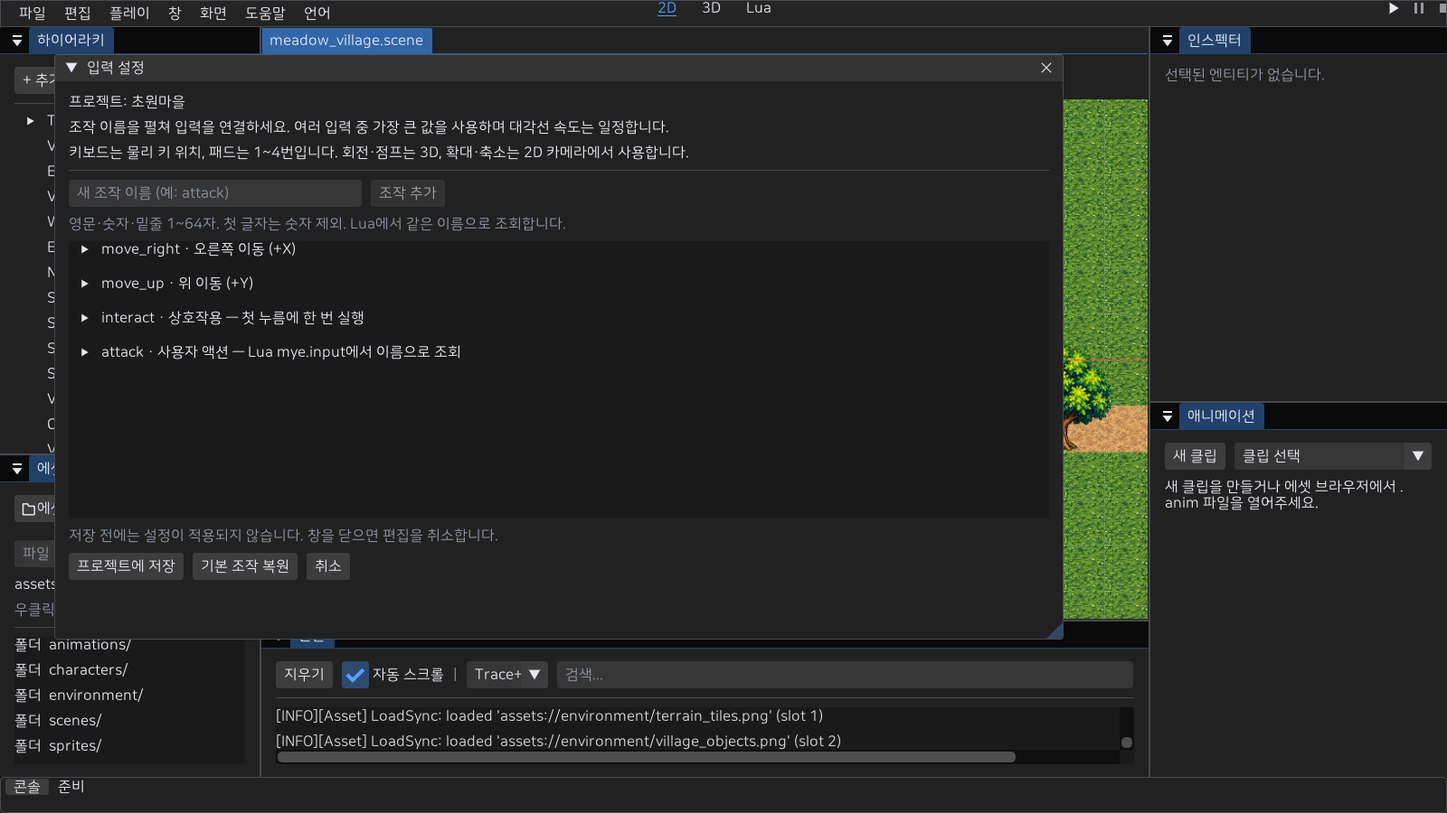
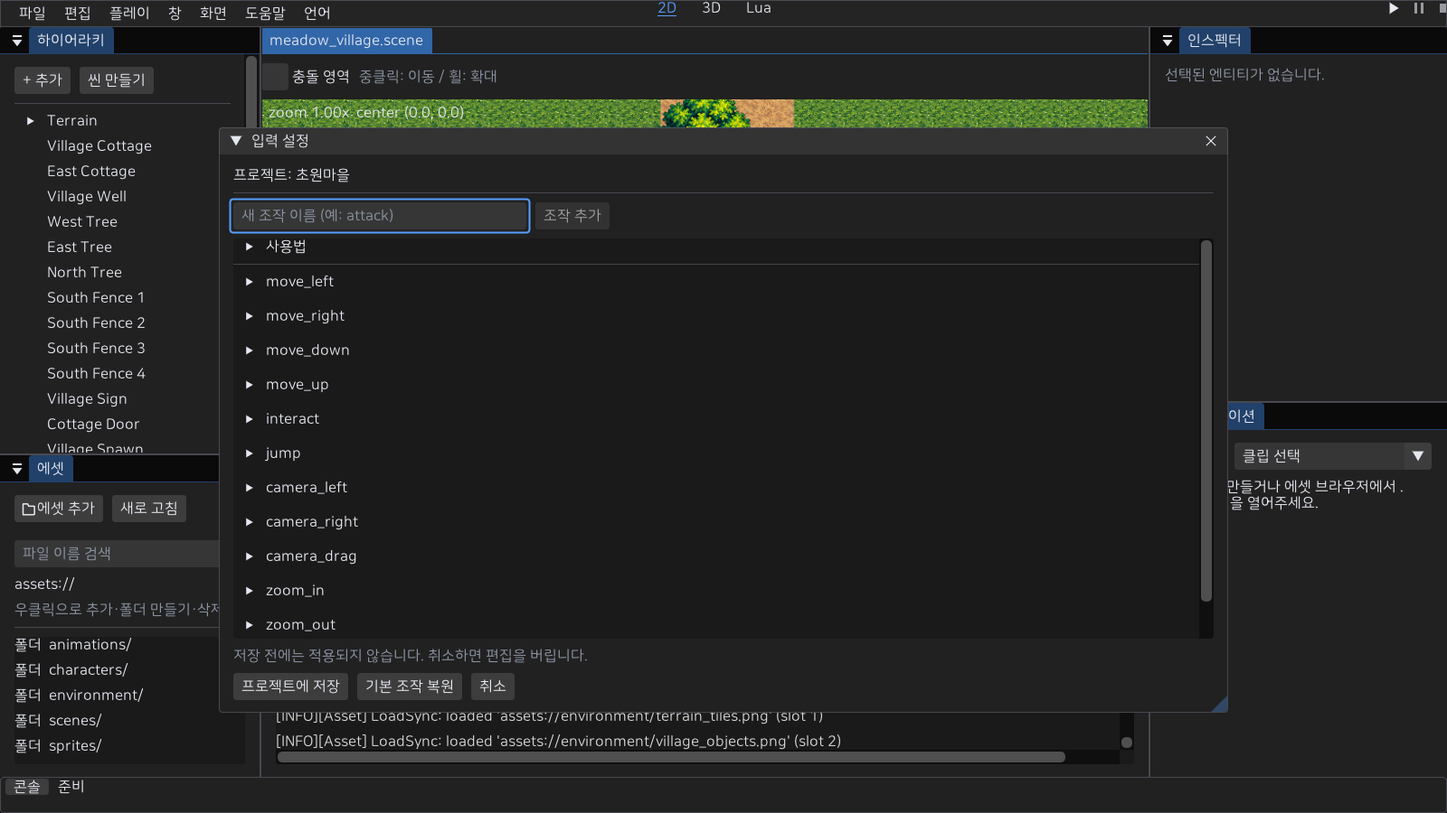
Improve input settings layout and keyboard routing

Changed region(s): [[0.0312, 0.0622, 0.875, 0.8711], [0.6875, 0.9022, 0.75, 0.9333], [0.1875, 0.4667, 0.2188, 0.5289]]

diff --git a/docs/guide/input.html b/docs/guide/input.html
@@ -10,10 +10,11 @@
 <a href="#section-5">검증과 다음 단위</a></nav></aside><main id="main"><h1 id="section-0">프로젝트 입력 설정</h1>
 <p><strong>파일 → 입력 설정…</strong>에서 조작을 만들거나 펼쳐 키보드·마우스·패드 입력을 연결하고 <strong>프로젝트에 저장</strong>을 누른다. Play와 MyGame의 로컬/인증 플레이가 같은 설정을 읽는다. 사용자 액션은 로컬 Lua에서 이름으로 조회한다. 현재 main 소스의 기능이며 기존 0.3.0 배포본에는 없다.</p>
 <h2 id="section-1">바로 변경하기</h2>
-<ol><li>Play를 중지하고 입력 설정을 연다.</li><li><code>move_right</code>를 펼쳐 기존 입력을 제거하고 <strong>입력 추가 → 키보드 → L</strong>을 선택한다. 다른 방향도 원하는 키로 지정한다.</li><li>필요하면 마우스 버튼·패드 버튼/축을 추가한다. 같은 조작에 여러 입력을 연결할 수 있지만 같은 바인딩을 두 번 저장할 수 없다.</li><li><strong>프로젝트에 저장</strong>을 누르고 다시 Play를 시작한다. 다음 실행부터 저장한 설정을 사용한다. 창 닫기·Escape·취소는 저장 전 편집을 버린다.</li></ol>
-<p>설정 창은 크기를 변경할 수 있고 목록을 스크롤한다. 장치·입력·패드 번호·방향은 두 열로 배치한다. <strong>기본 조작 복원</strong>은 편집 중인 설정만 기본값으로 바꾸며 저장해야 적용된다. 씬과 다른 프로젝트 파일은 이 버튼으로 저장하지 않는다.</p>
-<p>사용자 조작은 위의 이름 칸에 <code>attack</code>처럼 영문·숫자·밑줄 1~64자를 쓰고 <strong>조작 추가</strong>를 누른다. 숫자로 시작하는 이름·중복 이름은 거부하며 최대 64개다. 추가한 조작을 펼쳐 바인딩을 연결한다. <strong>조작 제거</strong>는 해당 이름과 모든 바인딩을 편집 초안에서 지운다. 기본 이동 조작도 제거하면 작동하지 않으므로 필요할 때 기본값을 복원한다. 이름 변경은 제거 후 새 이름으로 추가한다. 저장 전 취소는 추가·제거도 버린다.</p>
-<figure><img src="../images/input-settings.png" alt="실제 MyEditor 입력 설정 창. 검사 프로젝트에 저장한 세 조작을 표시한다." width="1600" height="900" loading="lazy"><figcaption>실제 MyEditor 입력 설정 창. 검사 프로젝트에 저장한 세 조작을 표시한다.</figcaption></figure>
+<ol><li>Play를 중지하고 입력 설정을 연다.</li><li><code>move_right</code>를 펼쳐 기존 입력을 제거하고 <strong>입력 추가 → 키보드 → L</strong>을 선택한다. 다른 방향도 원하는 키로 지정한다.</li><li>필요하면 마우스 버튼·패드 버튼/축을 추가한다. 같은 조작에 여러 입력을 연결할 수 있지만 같은 바인딩을 두 번 저장할 수 없다.</li><li><strong>프로젝트에 저장</strong>을 누르고 다시 Play를 시작한다. 다음 실행부터 저장한 설정을 사용한다. 창 닫기·취소는 저장 전 편집을 버린다. 입력 설정에 포커스가 있을 때 Escape로 취소한다. 입력 칸/팝업이 먼저 Escape를 소비하면 편집/팝업을 종료한 뒤 다시 누른다. 다른 작업대의 Escape는 초안을 버리지 않는다.</li></ol>
+<p>화면 크기가 바뀌면 설정 창을 다시 중앙에 배치한다. 설정 창은 사용 가능한 화면 크기 안에서 크기를 변경하며 이름 칸·추가 버튼과 하단 버튼은 폭에 맞춰 줄을 바꾼다. 사용법과 조작 목록은 스크롤 영역이고 저장·복원·취소는 하단에 둔다. 장치·입력·패드 번호·방향은 두 열로 배치한다. 조작의 역할은 펼쳤을 때 표시하고 접힌 이름에는 툴팁으로 제공한다. <strong>기본 조작 복원</strong>은 편집 중인 설정만 기본값으로 바꾸며 저장해야 적용된다. 씬과 다른 프로젝트 파일은 이 버튼으로 저장하지 않는다.</p>
+<p>창을 열면 이름 칸에 포커스가 간다. 사용자 조작은 <code>attack</code>처럼 영문·숫자·밑줄 1~64자를 쓰고 <strong>Enter 또는 조작 추가</strong>를 누른다. 숫자로 시작하는 이름·중복 이름은 거부하며 최대 64개다. 추가한 조작을 펼쳐 바인딩을 연결한다. <strong>조작 제거</strong>는 해당 이름과 모든 바인딩을 편집 초안에서 지운다. 기본 이동 조작도 제거하면 작동하지 않으므로 필요할 때 기본값을 복원한다. 이름 변경은 제거 후 새 이름으로 추가한다. 저장 전 취소는 추가·제거도 버린다.</p>
+<figure><img src="../images/input-settings.png" alt="MyEditor 1600×900 화면의 입력 설정. 기본 조작 목록과 이름 칸의 포커스를 표시한다." width="1600" height="900" loading="lazy"><figcaption>MyEditor 1600×900 화면의 입력 설정. 기본 조작 목록과 이름 칸의 포커스를 표시한다.</figcaption></figure>
+<figure><img src="../images/input-settings-narrow.png" alt="MyEditor 480×600 화면. 이름 입력/추가를 두 줄로 배치하고 하단 저장 버튼을 유지한다." width="480" height="600" loading="lazy"><figcaption>MyEditor 480×600 화면. 이름 입력/추가를 두 줄로 배치하고 하단 저장 버튼을 유지한다.</figcaption></figure>
 <h2 id="section-2">기본 조작</h2>
 <div class="table-scroll"><table><tr><th>조작 이름</th><th>기본 입력</th><th>역할</th></tr><tr><td>move_left / move_right</td><td>A / D, ← / →, 패드 D-pad·왼쪽 X축</td><td>XY 수평 이동</td></tr><tr><td>move_down / move_up</td><td>S / W, ↓ / ↑, 패드 D-pad·왼쪽 Y축</td><td>XY 수직 이동. +Y 위</td></tr><tr><td>interact</td><td>E, 패드 X</td><td>로컬의 가까운 대상과 상호작용. 첫 누름에 한 번</td></tr><tr><td>jump</td><td>Space, 패드 A</td><td>기존 3D 캐릭터의 점프</td></tr><tr><td>camera_left / camera_right</td><td>Q / R, 패드 오른쪽 X축</td><td>기존 3D 카메라 회전</td></tr><tr><td>camera_drag</td><td>마우스 오른쪽 버튼</td><td>기존 3D 카메라 드래그</td></tr><tr><td>zoom_in / zoom_out</td><td>휠 위 / 아래</td><td>저장 2D 카메라의 확대·축소. 키/버튼이면 첫 누름에 한 단계</td></tr><tr><td>exit_game</td><td>Escape</td><td>MyGame 종료, Play 중지 후 편집으로 복귀</td></tr></table></div>
 <p>입력이 없는 조작은 작동하지 않는다. 키보드는 문자가 아닌 물리 키 위치를 사용한다. 패드 번호는 UI에서 1~4이며 기본값은 1이다. 스틱 X의 양수는 오른쪽, Y의 양수는 위다. 에디터의 Ctrl+S·Ctrl+P 등 단축키와 작업대 팬·줌은 게임 조작 설정과 별개다.</p>
@@ -48,5 +49,5 @@
 <h2 id="section-5">검증과 다음 단위</h2>
 <p><code>InputActions → runtime::GameInputBuffer → PlayModeController/ObjectSystem 또는 MyGame::TickOnline</code>이 실제 소비 경로다. 온라인 패킷·예측/권위 이동 계약은 그대로 사용하며 시각 카메라/종료 입력을 서버 이동 권위로 보내지 않는다. MyServer는 조작 키를 해석하지 않는다.</p>
 <p>회귀 검사는 짧은 탭·반복·고정 틱 소비·대각선/반대 방향·캡처 취소·저장/재로드/실패 보존과 동일 입력의 Play/로컬 ObjectSystem 위치 일치를 확인한다. Play 창의 Win32 메시지에 X1 탭·휠·키·포커스를 보내는 검사는 <strong>합성 메시지</strong>이며 직접 장치 입력 검수와 구분한다. <code>tools/verify-input-actions.ps1</code>은 두 앱의 설정 로딩/오류 종료·실제 설정 창 캡처·이전 프로젝트 호환·씬 보존을 검사한다. 이동 키를 직접 누르는 검사를 대신하지 않는다.</p>
-<p>사용자 액션 작성·저장·재로드와 Lua 틱/종료 수명은 Play/별도 로컬 ObjectSystem에서 검증한다. 원시 패드 회귀는 작은 스틱/트리거·양끝·네 슬롯·연결 종료/포커스 중립·복귀 시 held 버튼 재실행 방지·대각선을 같은 샘플 경계에서 검사한다. 복귀한 이동은 유지하며 새 버튼 누름은 다시 실행된다. 저장한 4번 패드 트리거 조작이 Play/로컬 Lua에 전달되는 것도 확인한다. 합성 샘플은 실제 장치를 대신하지 않는다. 다음 단위는 직접 키보드·휠·패드/포커스 복귀·확장 위젯·좁은 화면/고해상도 검수다. D07 전체와 MMORPG 제작/출시는 아직 완료되지 않았다. <a href="camera2d.html">카메라</a>, <a href="../23-2d-online-play.md">2D 온라인</a>, <a href="../22-2d-mmorpg-roadmap.md">남은 작업</a>을 함께 확인한다.</p>
+<p>사용자 액션 작성·저장·재로드와 Lua 틱/종료 수명은 Play/별도 로컬 ObjectSystem에서 검증한다. 원시 패드 회귀는 작은 스틱/트리거·양끝·네 슬롯·연결 종료/포커스 중립·복귀 시 held 버튼 재실행 방지·대각선을 같은 샘플 경계에서 검사한다. 복귀한 이동은 유지하며 새 버튼 누름은 다시 실행된다. 저장한 4번 패드 트리거 조작이 Play/로컬 Lua에 전달되는 것도 확인한다. 합성 샘플은 실제 장치를 대신하지 않는다. ImGui 키 이벤트/활성화 회귀는 Enter 추가·포커스별 Escape·펼친 기본 조작 바인딩·좁은 창과 글꼴 1.5배의 가로 넘침/하단 버튼 가시성을 검사한다. native 캡처는 1600×900·480×600·360×600을 확인했다. 사람의 전체 키보드 탐색·직접 키보드/휠/패드·OS 반복·실제 모니터 DPI 전환 검수는 남았다. 다음은 이 장치 검수와 방향별 모션이다. D07 전체와 MMORPG 제작/출시는 아직 완료되지 않았다. <a href="camera2d.html">카메라</a>, <a href="../23-2d-online-play.md">2D 온라인</a>, <a href="../22-2d-mmorpg-roadmap.md">남은 작업</a>을 함께 확인한다.</p>
 <footer>정본: <a href="../25-input-actions.md">25-input-actions.md</a> · main 소스 전용</footer></main></div></body></html>

diff --git a/engine/editor/src/EditorInputSettings.cpp b/engine/editor/src/EditorInputSettings.cpp
@@ -51,6 +51,7 @@ Expected<void, Error> EditorApp::RequestInputSettings() {
     if (!m_project || !m_project->IsOpen()) return Error{"입력 설정을 변경할 프로젝트를 먼저 여세요.", 1};
     if (m_playMode->IsPlaying()) return Error{"실행을 중지한 뒤 입력 설정을 변경하세요.", 1};
     m_inputDraft = m_project->InputSettings();
+    m_inputSettingsViewportSize = {};
     m_inputActionName.fill(0);
     m_inputActionError.clear();
     m_showInputSettings = true;
@@ -59,22 +60,36 @@ Expected<void, Error> EditorApp::RequestInputSettings() {
 void EditorApp::DrawInputSettings() {
     if (!m_showInputSettings || !m_project->IsOpen()) return;
     const auto* viewport = ImGui::GetMainViewport();
+    const Vec2 workSize{viewport->WorkSize.x, viewport->WorkSize.y};
+    const bool viewportResized = workSize != m_inputSettingsViewportSize;
+    m_inputSettingsViewportSize = workSize;
+    const ImVec2 maxSize{viewport->WorkSize.x * .9f, viewport->WorkSize.y * .85f};
+    ImGui::SetNextWindowSizeConstraints({std::min(maxSize.x, ImGui::GetFontSize() * 18),
+                                         std::min(maxSize.y, ImGui::GetFontSize() * 24)}, maxSize);
+    ImGui::SetNextWindowPos({viewport->WorkPos.x + viewport->WorkSize.x * .5f,
+                            viewport->WorkPos.y + viewport->WorkSize.y * .5f},
+                            viewportResized ? ImGuiCond_Always : ImGuiCond_Appearing, {.5f, .5f});
     ImGui::SetNextWindowSize({std::min(viewport->WorkSize.x * .9f, ImGui::GetFontSize() * 62),
                              std::min(viewport->WorkSize.y * .85f, ImGui::GetFontSize() * 36)}, ImGuiCond_Appearing);
-    const bool visible = ImGui::Begin("입력 설정###MyEngineInputSettings", &m_showInputSettings);
+    const bool visible = ImGui::Begin("입력 설정###MyEngineInputSettings", &m_showInputSettings, ImGuiWindowFlags_NoDocking);
     if (visible) {
+        ImGui::PushTextWrapPos(0);
         ImGui::TextWrapped("프로젝트: %s", m_project->Name().data());
-        ImGui::TextWrapped("조작 이름을 펼쳐 입력을 연결하세요. 여러 입력 중 가장 큰 값을 사용하며 대각선 속도는 일정합니다.");
-        ImGui::TextWrapped("키보드는 물리 키 위치, 패드는 1~4번입니다. 회전·점프는 3D, 확대·축소는 2D 카메라에서 사용합니다.");
         const bool playing = m_playMode->IsPlaying();
         if (playing) ImGui::TextWrapped("실행을 중지한 뒤 설정을 변경하세요.");
         ImGui::Separator();
         ImGui::BeginDisabled(playing);
-        ImGui::SetNextItemWidth(ImGui::GetFontSize() * 18);
-        if (ImGui::InputTextWithHint("##ActionName", "새 조작 이름 (예: attack)", m_inputActionName.data(), m_inputActionName.size())) m_inputActionError.clear();
-        ImGui::SameLine();
+        const float availableWidth = ImGui::GetContentRegionAvail().x;
+        const float addWidth = ImGui::CalcTextSize("조작 추가").x + ImGui::GetStyle().FramePadding.x * 2;
+        const bool stackedName = availableWidth < ImGui::GetFontSize() * 18 + addWidth + ImGui::GetStyle().ItemSpacing.x;
+        if (ImGui::IsWindowAppearing()) ImGui::SetKeyboardFocusHere();
+        ImGui::SetNextItemWidth(stackedName ? availableWidth : ImGui::GetFontSize() * 18);
+        const bool addByEnter = ImGui::InputTextWithHint("##ActionName", "새 조작 이름 (예: attack)",
+            m_inputActionName.data(), m_inputActionName.size(), ImGuiInputTextFlags_EnterReturnsTrue);
+        if (ImGui::IsItemEdited()) m_inputActionError.clear();
+        if (!stackedName) ImGui::SameLine();
         ImGui::BeginDisabled(m_inputDraft.actions.size() >= 64 || !m_inputActionName[0]);
-        if (ImGui::Button("조작 추가")) {
+        if ((ImGui::Button("조작 추가") || addByEnter) && m_inputActionName[0] && m_inputDraft.actions.size() < 64) {
             InputMap addition{{{m_inputActionName.data(), .2f, {}}}};
             auto valid = addition.Validate();
             const bool duplicate = std::any_of(m_inputDraft.actions.begin(), m_inputDraft.actions.end(),
@@ -84,18 +99,35 @@ void EditorApp::DrawInputSettings() {
             else { m_inputDraft.actions.push_back(std::move(addition.actions.front())); m_inputActionName.fill(0); m_inputActionError.clear(); }
         }
         ImGui::EndDisabled();
-        ImGui::TextDisabled("영문·숫자·밑줄 1~64자. 첫 글자는 숫자 제외. Lua에서 같은 이름으로 조회합니다.");
-        if (!m_inputActionError.empty()) ImGui::TextWrapped("%s", m_inputActionError.c_str());
-        const float footerHeight = ImGui::GetFrameHeightWithSpacing() * 3;
-        if (ImGui::BeginChild("Actions", {0, -footerHeight})) {
+        const auto valid = m_inputDraft.Validate();
+        const char* status = valid ? "저장 전에는 적용되지 않습니다. 취소하면 편집을 버립니다." : valid.GetError().message.c_str();
+        const auto& style = ImGui::GetStyle();
+        const float buttonWidth = ImGui::CalcTextSize("프로젝트에 저장").x + ImGui::CalcTextSize("기본 조작 복원").x +
+                                  ImGui::CalcTextSize("취소").x + style.FramePadding.x * 6 + style.ItemSpacing.x * 2;
+        const bool stackedFooter = availableWidth < buttonWidth;
+        const float footerHeight = ImGui::CalcTextSize(status, nullptr, false, availableWidth).y + style.ItemSpacing.y +
+                                   ImGui::GetFrameHeightWithSpacing() * (stackedFooter ? 3 : 1);
+        if (ImGui::BeginChild("Actions", {0, std::max(ImGui::GetFrameHeight() * 2, ImGui::GetContentRegionAvail().y - footerHeight)})) {
+            ImGui::PushTextWrapPos(0);
+            if (ImGui::TreeNode("사용법")) {
+                ImGui::TextDisabled("이름: 영문·숫자·밑줄 1~64자, 숫자 시작 제외. 최대 64개.");
+                ImGui::TextWrapped("조작을 펼쳐 입력을 연결합니다. Lua에서 같은 이름으로 조회합니다.");
+                ImGui::TextWrapped("물리 키 위치 · 패드 1~4번 · 회전/점프 3D · 확대/축소 2D");
+                ImGui::TreePop();
+            }
+            if (!m_inputActionError.empty()) ImGui::TextWrapped("%s", m_inputActionError.c_str());
+            ImGui::Separator();
             if (m_inputDraft.actions.empty()) ImGui::TextWrapped("저장된 조작이 없습니다. 아래의 기본 조작 복원으로 시작하세요.");
             for (size_t actionIndex = 0; actionIndex < m_inputDraft.actions.size();) {
                 auto& action = m_inputDraft.actions[actionIndex];
                 bool removeAction = false;
                 ImGui::PushID(action.name.c_str());
                 const auto description = runtime::GameActionDescription(action.name);
-                if (ImGui::TreeNodeEx(action.name.c_str(), ImGuiTreeNodeFlags_None, "%s · %s", action.name.c_str(), description.data())) {
-                    ImGui::SetNextItemWidth(ImGui::GetFontSize() * 10);
+                const bool expanded = ImGui::TreeNodeEx(action.name.c_str(), ImGuiTreeNodeFlags_SpanAvailWidth);
+                if (ImGui::IsItemHovered()) ImGui::SetTooltip("%s · %s", action.name.c_str(), description.data());
+                if (expanded) {
+                    ImGui::TextWrapped("%s", description.data());
+                    ImGui::SetNextItemWidth(std::min(ImGui::GetFontSize() * 10, ImGui::GetContentRegionAvail().x - ImGui::CalcTextSize("데드존").x - style.ItemInnerSpacing.x));
                     ImGui::SliderFloat("데드존", &action.deadzone, 0, .95f, "%.2f");
                     if (ImGui::IsItemHovered()) ImGui::SetTooltip("이 값 이하의 아날로그 입력은 무시합니다. 이동은 네 방향의 평균값을 원형으로 적용합니다.");
                     if (action.bindings.empty()) ImGui::TextDisabled("입력 없음 — 이 조작은 작동하지 않습니다.");
@@ -120,11 +152,11 @@ void EditorApp::DrawInputSettings() {
                 else ++actionIndex;
                 ImGui::Spacing();
             }
+            ImGui::PopTextWrapPos();
         }
         ImGui::EndChild();
-        const auto valid = m_inputDraft.Validate();
-        if (!valid) ImGui::TextWrapped("%s", valid.GetError().message.c_str());
-        else ImGui::TextDisabled("저장 전에는 설정이 적용되지 않습니다. 창을 닫으면 편집을 취소합니다.");
+        if (!valid) ImGui::TextWrapped("%s", status);
+        else ImGui::TextDisabled("%s", status);
         ImGui::BeginDisabled(!valid);
         if (ImGui::Button("프로젝트에 저장")) {
             const auto saved = m_project->SaveInputSettings(m_inputDraft);
@@ -132,11 +164,12 @@ void EditorApp::DrawInputSettings() {
             if (saved) m_showInputSettings = false;
         }
         ImGui::EndDisabled();
-        ImGui::SameLine();
+        if (!stackedFooter) ImGui::SameLine();
         if (ImGui::Button("기본 조작 복원")) m_inputDraft = runtime::DefaultGameInputMap();
         ImGui::EndDisabled();
-        ImGui::SameLine();
-        if (ImGui::Button("취소") || ImGui::IsKeyPressed(ImGuiKey_Escape, false)) m_showInputSettings = false;
+        if (!stackedFooter) ImGui::SameLine();
+        if (ImGui::Button("취소") || ImGui::Shortcut(ImGuiKey_Escape)) m_showInputSettings = false;
+        ImGui::PopTextWrapPos();
     }
     ImGui::End();
 }

diff --git a/tests/src/EditorWorkflowTests.cpp b/tests/src/EditorWorkflowTests.cpp
@@ -1178,6 +1178,67 @@ MYE_TEST(EditorTwoDCameraElementUndoSaveReopenAndPlayIsolation) {
     reopened.Shutdown();
 }
 
+MYE_TEST(EditorInputSettingsResponsiveLayoutAndKeyboardOwnership) {
+    struct GuiScope {
+        GuiScope() { ImGui::CreateContext(); }
+        ~GuiScope() { ImGui::DestroyContext(); }
+    } gui;
+    auto& io = ImGui::GetIO();
+    io.ConfigFlags |= ImGuiConfigFlags_DockingEnable | ImGuiConfigFlags_NavEnableKeyboard;
+    io.IniFilename = nullptr; io.DisplaySize = {800, 640}; io.DeltaTime = 1.0f / 60;
+    unsigned char* pixels = nullptr; int width = 0, height = 0;
+    io.Fonts->GetTexDataAsRGBA32(&pixels, &width, &height);
+    const auto root = ProjectTestDirectory("input-settings-layout");
+    EditorTestContext engine(root); EditorApp app; TestEditorViewport viewport;
+    MYE_EXPECT(app.Initialize(engine, "")); app.SetViewport(&viewport);
+    MYE_EXPECT(app.CreateProject("Input", Utf8String(root / "project")));
+    const auto defaults = app.Project().InputSettings();
+    const auto frame = [&]() { ImGui::NewFrame(); app.OnFrame(); ImGui::Render(); };
+    frame(); MYE_EXPECT(app.RequestInputSettings()); frame(); frame();
+    auto* settings = ImGui::FindWindowByName("입력 설정###MyEngineInputSettings");
+    MYE_EXPECT(settings && settings->Active);
+    if (!settings) return;
+    MYE_EXPECT(ImGui::GetActiveID() == settings->GetID("##ActionName"));
+    io.AddInputCharactersUTF8("attack"); frame();
+    io.AddKeyEvent(ImGuiKey_Enter, true); frame();
+    io.AddKeyEvent(ImGuiKey_Enter, false); frame();
+    MYE_EXPECT(app.Project().InputSettings() == defaults);
+    ImGui::ActivateItemByID(settings->GetID("프로젝트에 저장")); frame();
+    MYE_EXPECT(app.Project().InputSettings().actions.size() == defaults.actions.size() + 1);
+    MYE_EXPECT(app.RequestInputSettings()); frame(); frame();
+    ImGuiWindow* actions = nullptr;
+    for (auto* window : ImGui::GetCurrentContext()->Windows)
+        if (window->ParentWindow == settings && window->ChildId == settings->GetID("Actions")) actions = window;
+    MYE_EXPECT(actions);
+    if (actions) {
+        const auto scope = ImHashStr("move_left", 0, actions->ID);
+        ImGui::ActivateItemByID(ImHashStr("move_left", 0, scope)); frame();
+    }
+    for (const float scale : {1.0f, 1.5f}) {
+        ImGui::GetStyle().FontScaleMain = scale;
+        ImGui::SetWindowSize(settings->Name, {350, 520}); frame(); frame();
+        MYE_EXPECT(settings->ContentSize.x <= settings->WorkRect.GetWidth() + 1);
+        if (actions) MYE_EXPECT(actions->ContentSize.x <= actions->WorkRect.GetWidth() + 1);
+        MYE_EXPECT(settings->ScrollMax.y == 0); // List scrolls; footer remains visible.
+    }
+    ImGui::GetStyle().FontScaleMain = 1;
+    io.DisplaySize = {480, 600}; frame(); frame();
+    const auto* screen = ImGui::GetMainViewport();
+    MYE_EXPECT(settings->Pos.x >= screen->WorkPos.x && settings->Pos.y >= screen->WorkPos.y);
+    MYE_EXPECT(settings->Pos.x + settings->Size.x <= screen->WorkPos.x + screen->WorkSize.x + 1);
+    MYE_EXPECT(settings->Pos.y + settings->Size.y <= screen->WorkPos.y + screen->WorkSize.y + 1);
+    auto* inspector = ImGui::FindWindowByName("인스펙터###mye.inspector");
+    MYE_EXPECT(inspector);
+    if (inspector) ImGui::FocusWindow(inspector);
+    frame(); frame(); io.AddKeyEvent(ImGuiKey_Escape, true); frame();
+    io.AddKeyEvent(ImGuiKey_Escape, false); frame();
+    MYE_EXPECT(settings->Active); // Escape in another workspace cannot discard the draft.
+    ImGui::FocusWindow(settings); frame(); frame();
+    io.AddKeyEvent(ImGuiKey_Escape, true); frame();
+    io.AddKeyEvent(ImGuiKey_Escape, false); frame();
+    MYE_EXPECT(!settings->Active);
+}
+
 MYE_TEST(EditorWorkspaceImGuiRoutingAndDialogs) {
     struct GuiScope {
         GuiScope() { ImGui::CreateContext(); }

diff --git a/engine/editor/include/mye/editor/EditorApp.h b/engine/editor/include/mye/editor/EditorApp.h
@@ -138,6 +138,7 @@ private:
     bool           m_showAddElement = false;
     bool           m_showInputSettings = false;
     InputMap       m_inputDraft;
+    Vec2           m_inputSettingsViewportSize{};
     std::array<char, 65> m_inputActionName{};
     std::string    m_inputActionError;
     bool           m_toolbarInMenu = false;

diff --git a/docs/16-foundation-worklog.md b/docs/16-foundation-worklog.md
@@ -387,3 +387,27 @@ UI 선택/검수: 기존 초안·저장·취소와 이름 ID/트리·두 열 위
 문서/도구: 01·13·14·15·19·22·25의 현재 입력 경로/상태·Lua와 입력 HTML을 갱신했다. 소유한 입력 섹션만 생성해 기존 XYZ/카메라 내용/앵커를 보존했고 로컬 링크/앵커 129개와 중복 id 검사를 통과했다. MCP npm build/smoke 32개가 통과해 원시 패드/단일 작성 데드존 참조를 확인했다. 로컬 개발·게임 제작·릴리즈 세 스킬에 샘플/필터/수명/회귀와 실제 장치 한계를 맞췄다. 스킬 설치·현재 세션 연결·제품 검증은 서로 다른 상태다. 이번 단위에는 UI 코드를 바꾸지 않았으며 이전 스킬 템플릿의 g++/c++ 부재 한계를 해결했다고 표시하지 않는다.
 
 장치/배포와 다음 작업: 한 번의 native XInput9_1_0 확인에서 네 슬롯 모두 1167로 미연결이었다(d07c-native-pad-probe.json). 실제 패드·키보드/마우스·포커스/OS 반복·확장 위젯/좁은 창/DPI 검수는 남았다. D07 검수와 D08 방향 모션을 다음 작은 단위로 진행한다. 온라인 상호작용/맵/게임 규칙/HUD·보호 전송·영속 복구·게임 배포도 계속 남아 있다. VERSION/v0.3.0·불변 배포본/사용자 설치·원문 피드백/에셋은 변경하지 않았다. main 소스 변경을 근거와 함께 커밋하며 전체 목표는 활성이다.
+
+## 2026-10-03 · 입력 작성 창의 레이아웃과 키보드 범위
+
+결론: main 소스의 입력 설정 창에서 이름 칸으로 시작해 Enter로 조작을 추가하고, 폭에 따라 입력/버튼을 줄바꿈하며 저장·취소를 보이도록 보완했다. 다른 작업대의 Escape가 설정 초안을 버리는 결함과 창 크기 변경 뒤 일부 UI가 화면 밖에 남는 결함을 수정했다. D07의 후속 단위이며 전체 입력/MMORPG 완료는 아니다. 이전 목표 턴은 progress, 시작 기준선은 main/origin 67443658cf9943a152b0913054e06e7e3309aa90과 깨끗한 작업 트리였다.
+
+요구/비교 근거: 실제 제작자의 입력 작성·취소·좁은 화면 가독성을 22번 D07에 따라 검사했다. 기존 myengine-development·imgui-ui-ux-engineering를 적용했고 공식 입력 작성/ImGui 지침과 vendored 1.92.9 WIP의 공개 Shortcut·창 제약 API를 확인했다. 비교 URL/차이는 ignored build/2d-foundation/d07d-benchmark.md에 기록했다. 새 스킬 패키지·UI 테마·컴파일러·에이전트는 추가하지 않았고 외부 소스를 복사하지 않았다. 기존 고지는 보존했다.
+
+호출 경로: 파일 메뉴/CLI→RequestInputSettings→프로젝트/Play 검사→초안 복사→EditorApp::OnFrame의 DrawInputSettings→InputMap 검증/SaveInputSettings 원자 저장을 확인했다. 게임/씬 저장이나 실제 입력 소비를 재작성하지 않았다. Enter와 버튼은 같은 추가/중복/최대 개수 검증을 사용하며 저장 전에는 프로젝트 설정을 바꾸지 않는다. 기존 오류 전달·Play 중 편집 금지·취소·프로젝트 전환의 초안 해제는 유지한다.
+
+발견한 결함: 최초 기존 코드에 추가한 회귀는 580/581로 실패했다(37.35초). 이름 칸의 초기 포커스·Enter 추가, 좁은 폭의 가로 넘침 두 배율, 다른 작업대 Escape의 잘못된 취소가 실제 실패 조건이었다(d07d-before-tests.log). 기존의 동일한 추가 버튼/저장 회귀는 이런 키보드/레이아웃 결함을 증명하지 못했다. 내장 Shortcut은 포커스/입력 소유권을 확인하므로 전역 IsKeyPressed를 대체해 공통 UI 경계에서 수정했다. 입력 칸/팝업이 키를 소비하면 그 편집/팝업을 종료한 뒤 다시 Escape로 창을 취소한다.
+
+레이아웃 선택: 기본 위젯·두 열 바인딩·창 스타일을 재사용했다. 이름 칸과 추가 버튼, 하단 세 버튼은 현재 사용 폭과 실제 글자/패딩 폭으로 줄을 나눈다. 상태 문자열의 줄바꿈 높이와 버튼 행 수로 목록 높이를 계산한다. child 내부에도 wrap 범위를 지정하고 사용법 트리·접힌 조작 툴팁·펼친 역할 설명으로 정보를 제공한다. 설명이 작은 목록을 모두 차지하는 native 캡처를 확인해 사용법은 기본 접힘으로 바꿨다. 별도 레이아웃 엔진·팩토리·범용 헬퍼·그림 그리기 위젯을 만들지 않았다.
+
+실제 화면에서 추가로 찾은 문제: 최대 크기만 적용하면 줄어든 main 창에서도 설정 창의 이전 중앙 위치가 남았다. 480×600/360×600 캡처에서 오른쪽 버튼/내용이 화면 밖으로 나가는 것을 확인했다. DrawInputSettings에 화면 크기를 기억하는 presentation Vec2 하나를 두고 크기가 바뀐 경우에만 다시 중앙에 배치한다. 일반 프레임에는 사용자가 옮긴 위치를 유지한다. 창 제약과 NoDocking은 설정 작업대를 도킹 패널과 구분한다. 위치·크기·초안 상태를 게임/프로젝트 데이터로 직렬화하지 않는다.
+
+최종 제품 검증: 전체 Debug/Release CMake 빌드와 순차 CTest가 각각 581/581을 통과했다(Debug 37.92초, Release 32.44초). 새 하나의 회귀는 실제 ImGui AddInputCharacters/키 이벤트/ActivateItemByID로 초기 포커스→Enter 추가→저장 전 불변→저장, 펼친 move_left의 바인딩, 글꼴 1/1.5 배율의 root/child 가로 경계·footer 무스크롤, 480×600 viewport의 위치/크기 경계와 다른/현재 작업대 Escape를 확인한다. 기존 버튼 추가/제거/저장·Lua 수명·입력/온라인·물리 검사는 유지했다. 세부 로그는 d07d-debug/release-build/tests/test-details.log이며 기존 D9025/C4996 경고는 별개다.
+
+앱/이미지: tools/verify-input-actions.ps1 Debug run=edac2e9ca8154df4a094eefe2d524903, Release run=1b335219c8994aee966b9bc4804b6921이 통과했다. 실제 설정/Play/게임 프레임·Lua 초기/고정 틱/종료·오류 종료·이전 프로젝트 호환·씬 해시 보존을 검사했다. fresh native capture run=ba1354994dd34200bb4d3f1994749ce7은 소유 PID의 창만 리사이즈하며 실제 BMP 크기 1600×900·480×600·360×600과 exit 0을 검사했다. 각각 화면을 육안 확인했고 1600/480 PNG를 문서/가이드에 반영했다. 프레임 캡처는 장치 조작 인증이 아니다.
+
+캡처 하네스의 실패와 교정: hidden 창의 MainWindowHandle이 0이어서 첫 검사가 실패했으나 앱은 120 프레임/덤프/exit 0을 완료했다. 소유 PID의 HWND 확인으로 고쳤다. 너무 일찍 창을 줄이면 프로젝트 열기의 ExpandEditorWindow가 다시 큰 창을 만들었으며 stdout 로그는 종료까지 버퍼링되어 준비 상태 신호로 쓸 수 없었다. WM_NULL 메시지 펌프 동기화와 최종 BMP 치수 거부로 잘못된 폭의 캡처를 성공으로 처리하지 않게 했다. 앞의 실패/중간 fixture들은 로컬 build/input-ui에 보관하고 사용자 프로젝트로 저장 실험을 하지 않았다.
+
+도구/문서: UI 스코프 검사와 MCP npm build/smoke 33개, 가이드 로컬 링크/앵커 130개·중복 id 검사가 통과했다. 13·14·15·22·25와 입력 HTML·이미지, 로컬 개발/게임 제작/릴리즈 세 스킬을 현재 작성/취소/검수 범위에 맞췄다. 입력 페이지와 소유한 이미지만 갱신해 기존 XYZ/카메라/Lua HTML을 보존했다. UI 스킬의 전체 품질 검사는 구조·정적·의미 30/30과 공식 두 revision fetch를 통과했지만 별도 템플릿 컴파일은 g++/c++ 부재로 실패했다(d07d-imgui-quality.log). MSVC 제품 빌드/CTest와 구분하며 전체 템플릿 게이트 통과로 표시하지 않는다.
+
+남은 완료 조건: 합성 키/활성화·글꼴 배율 모델·native 캡처는 사람이 모든 위젯을 Tab/Shift+Tab으로 탐색하는 검수, 모든 장치/오류 상태, 실제 모니터 DPI 이동을 대신하지 않는다. 직접 키보드/휠/패드·OS 반복·모니터 DPI는 D07에 남았고 다음 독립 제작 단위는 D08의 8방향 모션이다. 온라인 상호작용/맵/게임 규칙/HUD·보호 전송·영속 복구·게임 배포의 전체 목표는 활성이다. VERSION/v0.3.0·불변 배포본/사용자 설치·원문 피드백·원본 에셋은 변경하지 않는다.

diff --git a/docs/13-architecture-and-features.md b/docs/13-architecture-and-features.md
@@ -35,7 +35,7 @@ assets/ + .meta → AssetDatabase → assets:// VFS → AssetManager → 렌더/
 
 입력은 게임 창이 활성일 때만 PlayWorld에 전달한다. 창을 닫거나 Stop을 누르면 PlayWorld를 폐기한다. Pause는 시뮬레이션만 멈추고 표시를 유지한다. 플레이는 같은 프로세스의 별도 Win32 창이며 장애 격리는 제공하지 않는다.
 
-main 소스는 .myeproj의 inputMap을 ProjectContext와 MyGame이 같은 파서로 읽는다. core InputActions가 이름/바인딩/세기와 프레임→고정 틱 소비를 담당하고 runtime GameInputBuffer가 기본 이동/상호작용/카메라/종료를 조합한다. 파일 메뉴에서 기본/사용자 조작을 작성·제거·별도 저장하며 기존 필드 없는 프로젝트는 기본값을 사용한다. InputBindingModule을 재사용해 로컬 ObjectSystem의 Lua에 이름 기반 조회를 등록했다. GameInput의 비소유 액션 상태는 Tick 동안만 연결하고 반환/종료 전에 해제한다. 조회는 소비하지 않으며 raw InputState는 이 경로에 연결하지 않는다. Play 창은 다섯 마우스 버튼·휠과 XInput 폴링을 연결했다. 폴링은 원시 GamepadSample을 보관하고 액션은 RawGamepadAxis에서 저장 데드존을 한 번 적용한다. 기존 저수준 필터는 조회 시 유지한다. 저장 실패·짧은 탭/중복 소비·캡처 취소·합성 Win32/패드 샘플·저장 사용자 액션의 Play/로컬 Lua·앱의 등록/오류 종료를 검증한다. 직접 장치/확장 위젯 검수는 [25](25-input-actions.md)의 다음 단위다.
+main 소스는 .myeproj의 inputMap을 ProjectContext와 MyGame이 같은 파서로 읽는다. core InputActions가 이름/바인딩/세기와 프레임→고정 틱 소비를 담당하고 runtime GameInputBuffer가 기본 이동/상호작용/카메라/종료를 조합한다. 파일 메뉴에서 기본/사용자 조작을 작성·제거·별도 저장하며 기존 필드 없는 프로젝트는 기본값을 사용한다. InputBindingModule을 재사용해 로컬 ObjectSystem의 Lua에 이름 기반 조회를 등록했다. GameInput의 비소유 액션 상태는 Tick 동안만 연결하고 반환/종료 전에 해제한다. 조회는 소비하지 않으며 raw InputState는 이 경로에 연결하지 않는다. Play 창은 다섯 마우스 버튼·휠과 XInput 폴링을 연결했다. 폴링은 원시 GamepadSample을 보관하고 액션은 RawGamepadAxis에서 저장 데드존을 한 번 적용한다. 기존 저수준 필터는 조회 시 유지한다. 저장 실패·짧은 탭/중복 소비·캡처 취소·합성 Win32/패드 샘플·저장 사용자 액션의 Play/로컬 Lua·앱의 등록/오류 종료를 검증한다. 입력 작성 창은 Enter 추가·포커스별 Escape와 폭에 따른 줄바꿈/스크롤·하단 버튼을 검증했다. 직접 장치/전체 키보드 탐색/실제 모니터 DPI 검수는 [25](25-input-actions.md)에 남았다.
 
 프로젝트 생성·열기는 후보 파일과 경로를 검증한 후 기존 문서를 바꾼다. 저장 실패는 `Expected<T, Error>`로 전달한다. 에셋 가져오기는 내용을 검사하고 중복 파일을 덮어쓰지 않는다. 삭제는 사용 중인 참조를 검사하고 파일·메타를 휴지통으로 보낸다. 편집 레이아웃은 `.myeditor/`에 저장하며 버전관리에서 제외한다.
 

diff --git a/docs/14-development-priorities.md b/docs/14-development-priorities.md
@@ -7,7 +7,7 @@
 | P0 | 인증·전송·저장·원장 실패와 복구 | 공개 서버는 로컬 JSON·테스트 계정·평문 전송의 한계를 가진다 | 암호화 전송·비밀번호 저장 검증·중단 복구·원자적 거래·강제 오류/재시작에서 데이터 보존 |
 | 완료(main 소스) | 공통 2D 권위 이동·충돌과 기본 앱 연결 | 공용 로더/계산·인증과 두 공식 앱의 원격 픽셀/삭제·벽 접촉·ack·저장/재시작 재접속 검증 | D02→D05 완료 범위: 동일 정적 장면/고정 층. 배포본·직접 키보드/패드·다른 장치와 공개 운영은 별도 |
 | 완료(main 소스) | 저장 2D 게임 카메라 | 공용 계산/직렬화/고정 틱으로 Play/MyGame 정적 프레임 일치와 인증 사용자별 추종을 검증 | D06: 이름/부모 추종·경계·데드존·스냅·줌/흔들림·좌표 변환. 직접 휠/포커스·새 PC·배포본은 별도 |
-| P1 | 2D 제작·입력·방향별 모션 | 저장 카메라·기본/사용자 조작 작성/저장/재매핑·공통 틱/Lua 조회·원시 패드/단일 데드존은 연결; 직접 장치/UI 검수와 방향 모션/타일/NPC 흐름은 미완료 | D07→D13: 작성→저장→재로드→로컬/온라인 플레이; 실제 입력·프레임/이벤트·픽셀/발 피벗 검사. 씬/에셋 편집의 Undo도 유지 |
+| P1 | 2D 제작·입력·방향별 모션 | 저장 카메라·기본/사용자 조작 작성/저장/재매핑·공통 틱/Lua 조회·원시 패드/단일 데드존은 연결; 입력 창의 합성 키/좁은 폭·글꼴 배율 회귀는 통과; 직접 장치·전체 키보드 탐색·모니터 DPI와 방향 모션/타일/NPC는 미완료 | D07→D13: 작성→저장→재로드→로컬/온라인 플레이; 실제 입력·프레임/이벤트·픽셀/발 피벗 검사. 씬/에셋 편집의 Undo도 유지 |
 | P3 | 3D 제작·선택·기즈모·메시 임포트 확장 | 기존 지원을 보존하며 2D 목표 이후로 순서를 변경 | 실제 3D 제작 요구가 다시 생길 때 XYZ 선택/TRS·glTF 노드/재질 검토 |
 | P3 | 3D 물리 확장·orbit 고도화 | 구현된 범위는 유지; 새 임의 메시/강체·카메라 확장은 2D 제작을 먼저 완료 | 실제 수요와 호환/렌더/입력 시나리오에 따라 범위 결정 |
 | P1 | 게임 UI 제작과 런타임 연결 | 위젯 라이브러리는 있지만 에디터의 시각 편집·게임 HUD 연결은 없다 | 제작·저장·실행·입력·한글·해상도 변경까지 연결된 사용자 시나리오 |

diff --git a/docs/22-2d-mmorpg-roadmap.md b/docs/22-2d-mmorpg-roadmap.md
@@ -32,7 +32,7 @@ MyEngine의 존재 이유는 **온라인 2D 픽셀 MMORPG를 간단하게 제작
 | D04 | 2D 인증·입력·스냅샷 · 완료(main 소스) | 공유 인증/세션·처리 ack·공통 충돌 예측/재실행·저장 재접속을 UDP 라이브러리와 공식 앱에서 검증. 좌표·층·방향·패킷 상한 검사; 공개 보호 전송은 D29 |
 | D05 | 공식 2D 온라인 플레이 · 완료(main 소스) | Debug/Release MyServer/MyGame 두 계정 표시/이동·처리 ack·offset/층/벽 충돌·실제 원격 스프라이트/퇴장 픽셀·Lua 격리·저장/재시작 재접속 검증. 입력 재생은 직접 키보드/패드·새 PC 검증과 구분 |
 | D06 | 2D 게임 카메라 · 완료(main 소스) | 저장/Undo/재로드·이름/부모 추종·경계/데드존/스냅·줌/렌더 흔들림·Lua 좌표 왕복. Play/MyGame 정적 BMP 일치, 틱별 행렬/잔차, 인증 두 사용자별 2배 추종/원격 픽셀. 직접 휠/포커스는 D07 |
-| D07 | 입력 액션 · 진행 중 | 기본/사용자 조작 작성/저장/재매핑·공통 틱/Lua 수명·원시 패드 축/단일 데드존·합성 Win32/앱 등록 연결. 다음: 직접 키·휠·패드/포커스/확장 위젯·좁은 창/DPI 검수. 대각선 속도·첫 누름 한 번 소비를 유지 |
+| D07 | 입력 액션 · 진행 중 | 기본/사용자 조작 작성/저장/재매핑·공통 틱/Lua 수명·원시 패드 축/단일 데드존·합성 Win32/앱 등록 연결. Enter/포커스별 Escape·펼친 바인딩·좁은 창/글꼴 배율 회귀와 native 캡처를 보완. 다음: 직접 키·휠·패드/OS 반복·전체 키보드 탐색·실제 모니터 DPI 검수. 대각선 속도·첫 누름 한 번 소비를 유지 |
 | D08 | 방향별 스프라이트 모션 · 기반 | 클립·8방향 매핑 → 상태 전환 → 이벤트. 발 피벗/진행 시간 유지, 걷기·공격·피격·사망을 실제 게임에서 재생 |
 | D09 | 재사용 씬/오브젝트 · 기반 | 저장 인스턴스·참조 → 복제/덮어쓰기 → Undo/재로드. GUID·엔티티 참조와 실패 시 원본을 보존 |
 | D10 | 타일맵 제작 · 기반 | 타일셋/아틀라스 임포트 → 그리기/지우기/채우기 → 지형 연결/층/충돌 편집. Undo·저장·로드·렌더/권위 충돌을 검증 |

diff --git a/docs/15-skills-and-agents.md b/docs/15-skills-and-agents.md
@@ -48,3 +48,5 @@
 사용자 입력 액션에는 기존 lua 지침을 추가 적용했다. 새 바인딩 계층 대신 InputBindingModule을 재사용하고 문자열 인자·읽기 전용 틱 상태·비소유 수명·종료 콜백을 검증한다. 로컬 세 스킬과 MCP의 input/lua 참조에 실제 API를 갱신했다. 스킬 설치·Lua 등록·현재 MCP 연결·직접 UI 조작 검수는 서로 다른 상태다.
 
 원시 패드에는 기존 플랫폼 XInput과 InputState 샘플 경계를 재사용했다. 액션에 저장한 데드존을 한 번 적용하고 기존 필터 조회 API는 유지한다. 로컬 세 스킬에 작은 축/트리거·저장 Lua·포커스/연결 종료 회귀와 실제 패드 미연결 상태를 기록했다. 가상 패드 패키지·새 입력 인터페이스·병렬 에이전트는 추가하지 않았다.
+
+입력 작성 창의 보완도 기존 ImGui 지침과 기본 위젯/Shortcut을 재사용했다. 실제 이벤트/크기·글꼴 배율 회귀와 native 캡처를 구분한다. 로컬 세 스킬에 작성/취소·화면 크기 변경·사람의 전체 탐색/모니터 DPI 미검증을 갱신했다. 새 UI 패키지나 병렬 에이전트는 추가하지 않았다.
